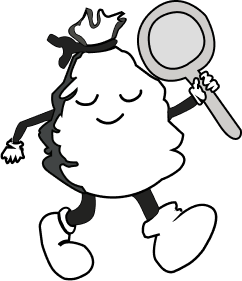
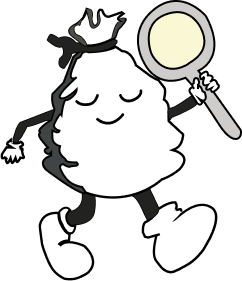
3

Changed region(s): [[0.6074, 0.0285, 0.8388, 0.2562]]

diff --git a/src/components/Main.jsx b/src/components/Main.jsx
@@ -6,20 +6,20 @@ import planeta from "../img/planeta.png"
 import {Link} from "react-router-dom";
 import Scroll from "../components/Scroll"
 import separador from "../img/separador.png"
+
 function Main() {
   return (
     <>
       {/* <Scroll showBelow={250}/> */}
       <div className="Navbar">  
         <img className= "logo" src= {logo} alt=" "/>
-        <a className = "Seccion" href="#Parte1">Rexat</a>
-        <a className = "Seccion" href="#Parte2">Concientizate</a>
-        <a className = "Seccion" href="#Seguinos">Conocenos</a>
+        <a className = "Seccion" href="#Rexat">Rexat</a>
+{/*         <a className = "Seccion" href="#Parte2">Concientizate</a>
+ */}        <a className = "Seccion" href="#Conocenos">Conocenos</a>
         <a className = "Seccion" href="#Parte4">Mapa</a>
       </div>
            
-<div className='Inicio'>
-  
+<div className='Inicio'>  
   <div id= "Parte1">
     <div className="Text">
      <div className = "Hola"> Hola, <br></br> Somos <b><span style={{ color: "#ff951c" }}>Rexat</span> </b></div>
@@ -27,15 +27,17 @@ function Main() {
     </div>    
       <img className='basura' src= {basura} alt=" "/>
   </div>
-   <img className='separador' src= {separador} alt=" "/>
+
+{/*    <div className='centrar'><img className='separador' src= {separador} alt=" "/></div>
+ */}
   <div id='Parte2'> 
-      <h1>Cuidemos nuestro planeta</h1>
-      <p> Lorem ipsum dolor sit amet consectetur adipisicing elit. Laborum nisi velit esse dolor, deserunt obcaecati laudantium explicabo amet commodi magnam reiciendis voluptatem perferendis corporis ab doloribus quibusdam. Illo, quod dolorem. Lorem ipsum dolor sit amet consectetur adipisicing elit. Voluptate magnam dolorum et harum cumque veritatis corporis officia nostrum. Dolorem, debitis incidunt? Nobis, fuga ipsa error ipsum quasi ducimus eaque nostrum.</p>      
+  <h2>Cuidemos nuestro planeta<br></br>Actualmente hay mucha basura en las costas de todo el mundo <br></br> </h2> <p>
+      y hay que trabajar juntos para resolverlo, <br></br> para tener un futuro mejor.</p>      
   </div>
   <div id="Parte3">
-       <img className='separador' src= {separador} alt=" "/>
+  <div className='centrar'><img className='separador' src= {separador} alt=" "/></div>
 
-  <h1 className="Rexat"> ¿Qué es Rexat?</h1>
+  <h1 id="Rexat"> ¿Qué es Rexat?</h1>
     <div className="Grid1">
         <div className= "QuienesSomos"> 
           <h1> ¿Quiénes somos?</h1>
@@ -53,15 +55,15 @@ function Main() {
         </div>
       <div className ="Conocenosimg"> </div>  
     </div>    
-    <h1 id="Seguinos"> Seguinos </h1>
+    <h1 id="Conocenos"> Contactanos </h1>
     <div className = "Grid2">
       <div className = "Joaco">
         <h2 className='Nombre'> Joaquín<br></br>Marcel </h2>
         <div className = "Info"> 
           <button>L</button>
           <p> Back-End</p>
-          <button> IG </button>
-        </div>
+{/*           <button> IG </button>
+ */}        </div>
       </div>
 
       <div className = "Tina">
@@ -69,8 +71,8 @@ function Main() {
         <div className = "Info"> 
           <button>L</button>
           <p> Full-Stack </p>
-          <button> IG </button>
-        </div>
+{/*           <button> IG </button>
+ */}        </div>
       </div>
 
       <div className = "Iara">
@@ -78,8 +80,8 @@ function Main() {
         <div className = "Info"> 
           <button>L</button>
           <p> Full-Stack </p>
-          <button> IG </button>
-        </div>
+{/*           <button> IG </button>
+ */}        </div>
       </div>
 
       <div className = "Uma">
@@ -87,15 +89,15 @@ function Main() {
         <div className = "Info"> 
           <button>L</button>
           <p>  UX/UI Designer  </p>
-          <button> IG </button>
-        </div>
+{/*           <button> IG </button>
+ */}        </div>
       </div>
     </div>
   </div>
   <div id="Parte4">
-    <img className='separador' src= {separador} alt=" "/>
+  <div className='centrar'><img className='separador' src= {separador} alt=" "/></div>
     <h1 className='titulo'>Acceder al mapa</h1>
-    <Link to = "/mapview" className = "IralMapa"> <img className= "planeta" src= {planeta} alt=" "/></Link>
+    <div className='centrar'><Link to = "/mapview" className = "IralMapa"> <img className= "planeta" src= {planeta} alt=" "/></Link> </div>
   </div>
    
   <footer className='footer'>Rexat - 2022</footer>

diff --git a/src/components/Main.css b/src/components/Main.css
@@ -4,7 +4,6 @@
     text-decoration: none;
     margin-right: 10rem;
     align-items: center;  justify-content: center;
-
 }
 .Navbar{
     background-color: #3A5A40;
@@ -37,11 +36,10 @@
     float:right;
 }
 #Parte2{
-    align-items: center;  justify-content: center;
-    padding:100px;
-    display: grid;
-    align-items: center;  justify-content: center;
-    grid-template-columns: 50% 50%;
+    padding:1rem;
+    display:flex;
+    justify-content: center;
+
 }
 .Grid2{
     display: grid;
@@ -96,9 +94,8 @@
 }
 
 .planeta{
-    margin: 2cm;
+    padding: 2cm;
     display: inline; 
-    transform: translateX(26.5rem)
 }
 
 .basura{
@@ -111,16 +108,18 @@
 }
 
 .separador{
-    display: flex; align-items: center;  justify-content: center;
     width: 30rem;
 }
 
-.Rexat{
+#Rexat{
     display: flex; align-items: center;  justify-content: center;
     font-size: 40px;    
 }
 
-#Seguinos{
+#Conocenos{
     display: flex; align-items: center;  justify-content: center;
     font-size: 40px;
+}
+.centrar{
+    display: flex; justify-content: center;
 }